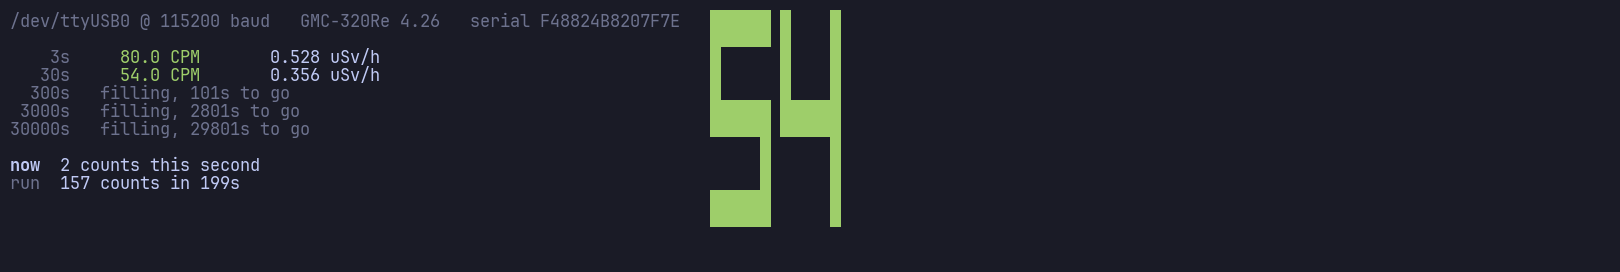
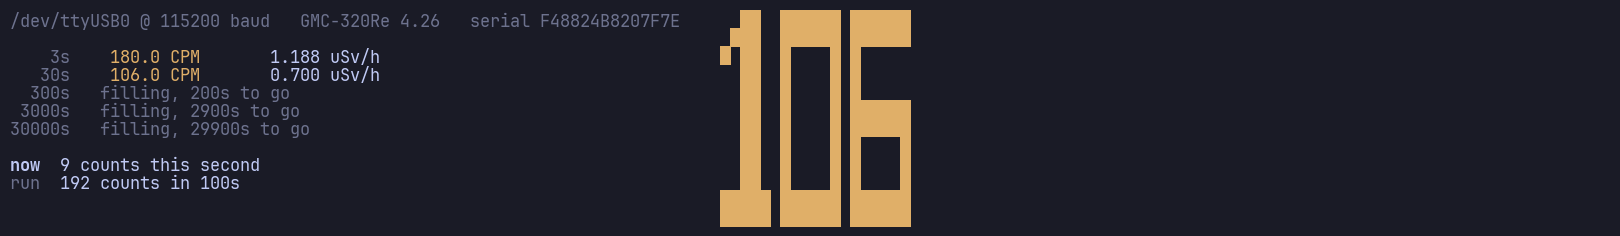
screenshots from a four-minute run during the high readings, and the README says what is in them
Every picture in docs/screenshots re-recorded from the GMC-320Re on the desk,
on the build with the tiered strip, the log table, the clock, logging and
export in the monitor, and the backfill fixes -- so the backfill line in the
hero says 30 added and the table has no rows from the future. Recorded while
the count was running at up to three times background and then fell away.

watch-300-320.gif is gone; watch-20s.gif is seconds 200 to 220. The captions
under both animations carry this run's numbers.

Changed region(s): [[0.0, 0.0297, 0.5864, 0.9788], [0.0, 0.178, 0.2469, 0.8008]]

diff --git a/README.md b/README.md
@@ -26,30 +26,33 @@ pass-through produces no `/dev/ttyUSB0`.
 
 ![the monitor](https://raw.githubusercontent.com/vonglurt/radbeeper/main/docs/screenshots/watch.png)
 
-**Nine minutes of it, at forty times speed.** A whole session of the native
-build against the counter these logs came from, a frame every four seconds:
+**Four minutes of it, at forty times speed.** A whole session of the native
+build against the counter these logs came from, a frame every four seconds,
+recorded while something outside, probably construction, was
+pushing the count to three times its usual background and then stopped:
 
-![the monitor, a whole 560-second session at 40x](https://raw.githubusercontent.com/vonglurt/radbeeper/main/docs/screenshots/watch-fast.gif)
+![the monitor, a whole 240-second session at 40x](https://raw.githubusercontent.com/vonglurt/radbeeper/main/docs/screenshots/watch-fast.gif)
 
-The windows arrive in order — 3 s, then 30 s, then five minutes at 302 s —
-while the two long ones count down the whole way. The spectrum starts
-accumulating at once and has its first window at 128 s, and the random line
-turns up only after the pool has measured enough of the source to put 256 bits
-behind it.
+It opens on the monitor reading the counter's history to fill the log's gaps,
+about twenty seconds of flash over the serial line. Then the windows arrive in
+order, 3 s and then 30 s, while the three long ones count down. Early on the
+30-second window sits between 84 and 124 CPM with red spikes through the
+counts; by the end it is at 22. The log table fills from the bottom: first the
+rows the backfill rebuilt, dim, then a live row every thirty seconds. The
+counts strip on the left compresses as it ages, two and then four seconds a
+bar.
 
-**Twenty seconds of it, at ten times speed.** Seconds 300 to 320 of the same
+**Twenty seconds of it, at ten times speed.** Seconds 200 to 220 of the same
 session, one frame a second:
 
-![the monitor, seconds 300-320 at 10x](https://raw.githubusercontent.com/vonglurt/radbeeper/main/docs/screenshots/watch-300-320.gif)
+![the monitor, twenty seconds at 10x](https://raw.githubusercontent.com/vonglurt/radbeeper/main/docs/screenshots/watch-20s.gif)
 
-The 3-second window swings between 0 and 60 CPM while the 5-minute one moves
-between 44.6 and 45.8 — which is the whole argument for keeping five of them.
-The 5-minute window **arrives two seconds in**, at 302 s, having had nothing to
-say until then; the 50-minute one is still counting down and will be for
-another forty-five minutes, and the working-day window will be for another
-eight hours. The bars recolour as individual seconds land, the spectrum stays
-flat, and there is no random line yet — the pool is still measuring the source,
-and its countdown ticks from 93 s to 77 s across these twenty seconds.
+The 3-second window swings between 0 and 60 CPM while the 30-second one holds
+between 38 and 46, which is the whole argument for keeping more than one. The
+5-minute window is still filling, from 119 s to go down to 99; the 50-minute and
+working-day windows are further off. The bars recolour as individual seconds
+land, the `¦` over the fine tier marks where each log row closes, and there is
+no random line yet: the pool is still measuring the source.
 
 ## Fast track
 
@@ -309,7 +312,7 @@ counting for 30s...
 `--spans` takes the list, so `--spans 1,10,60` is a different set of three
 questions. Every window is a column in the log, whatever you choose. The
 [animation at the top](#radbeeper) is twenty seconds of exactly this: the
-3-second window swinging 0 to 60 while the 300-second one holds 45.
+3-second window swinging 0 to 60 while the 30-second one holds between 38 and 46.
 
 **A window shows nothing until it is full**, and says how long it still needs:
 

diff --git a/docs/reference.md b/docs/reference.md
@@ -90,7 +90,7 @@ Two consequences worth having. **A screenshot cannot claim something the
 program does not do** — the log-format shot found that busybox `sed` ignores
 `\x` escapes, because the recording showed the escape instead of the arrow.
 And **the monitor shots are one session**: the hero, the filling shot, the
-spectrum strip and both animations are moments of the same 560-second run
+spectrum strip and both animations are moments of the same 240-second run
 of the native build against the counter, so the numbers in them agree with each
 other because they are the same numbers.
 
